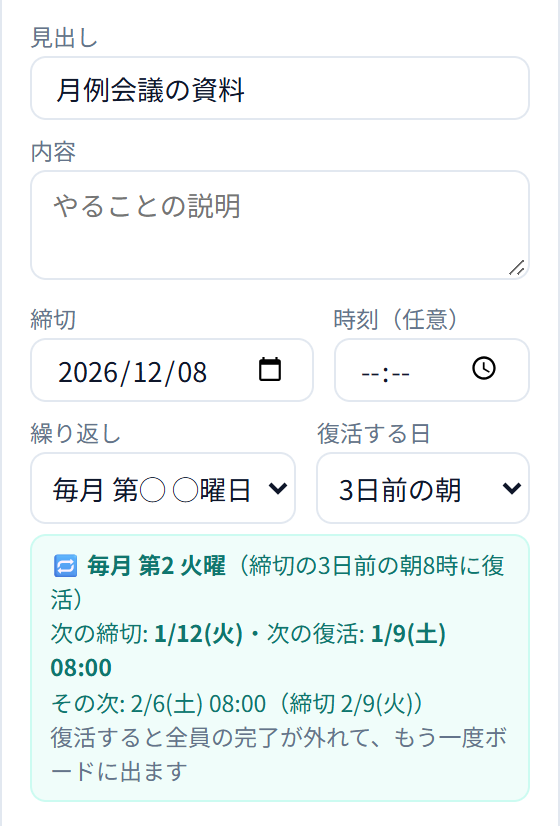
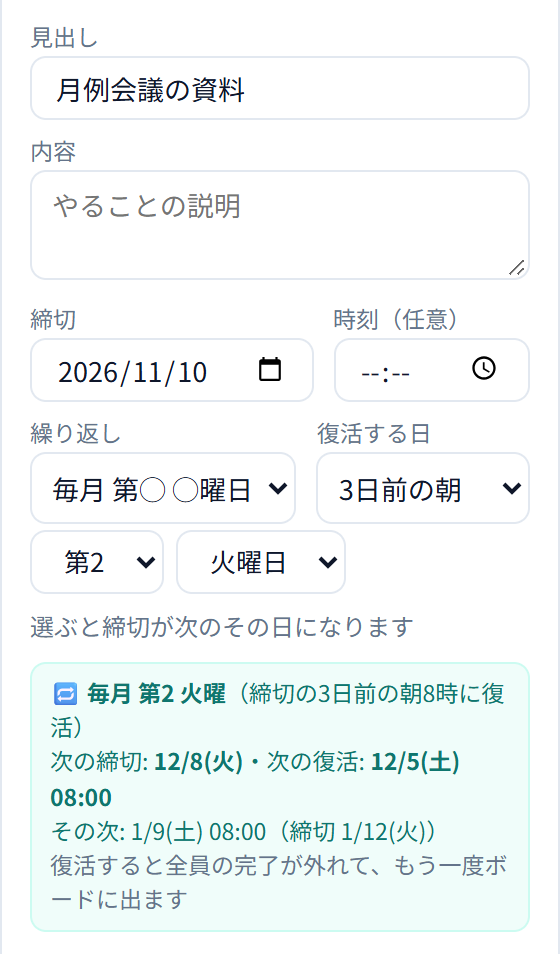
サンプル版とガイドに「保存したチーム」と「第何・曜日のプルダウン」

diff --git a/index.html b/index.html
@@ -155,6 +155,17 @@
   .board .empty { grid-column: 1 / -1; }
   .board.more::after { content: ""; }
   .chips { display: flex; gap: 6px; flex-wrap: wrap; }
+  .wdpick { display: flex; align-items: center; gap: 6px; flex-wrap: wrap; margin: -4px 0 10px; font-size: 13px; }
+  .wdpick select { height: 32px; font-size: 13px; width: auto; }
+  .wdpick .hint { font-size: 12px; }
+  .teampick { display: flex; align-items: center; gap: 6px; flex-wrap: wrap; margin: 0 0 8px; padding: 8px; background: #f0fdf4; border: 1px solid #bbf7d0; border-radius: 8px; }
+  .teampick .tp-l { font-size: 12px; font-weight: 700; color: #3f6212; }
+  .teampick select { flex: 1 1 100%; order: 3; min-width: 0; height: 32px; font-size: 13px; } /* 名前が切れないよう1行使う */
+  .teampick .tp-l { flex: 1; white-space: nowrap; }
+  .teampick .btn { height: 28px; padding: 0 8px; font-size: 12px; }
+  .tchecks { max-height: 260px; overflow: auto; border: 1px solid var(--line); border-radius: 8px; padding: 6px 8px; display: grid; grid-template-columns: repeat(auto-fill, minmax(140px, 1fr)); gap: 2px 10px; }
+  .tchecks label { display: flex; align-items: center; gap: 6px; font-size: 13px; margin: 0; cursor: pointer; white-space: nowrap; overflow: hidden; text-overflow: ellipsis; }
+  .tchecks input { width: auto; height: auto; margin: 0; }
   .checks { max-height: 150px; overflow: auto; border: 1px solid var(--line); border-radius: 8px; padding: 6px 8px; display: grid; grid-template-columns: 1fr 1fr; gap: 2px 8px; } /* 相手のチェック一覧（外したい人はチェックを外す） */
   .checks label { display: flex; align-items: center; gap: 6px; font-size: 12.5px; color: var(--text); margin: 0; cursor: pointer; white-space: nowrap; overflow: hidden; text-overflow: ellipsis; padding: 2px 0; }
   .checks label.off { color: var(--faint); text-decoration: line-through; }
@@ -325,11 +336,12 @@
             <div class="field"><label>内容</label><textarea id="cBody" rows="2" placeholder="やることの説明"></textarea></div>
             <div class="row2"><div class="field"><label>締切</label><input id="cDue" type="date"></div><div class="field"><label>時刻（任意）</label><input id="cDueTime" type="time"></div></div>
             <div class="row2 rrow"><div class="field"><label>繰り返し</label><select id="cRepeat"><option value="">しない</option><option value="weekly">毎週</option><option value="biweekly">隔週</option><option value="monthly">毎月（同じ日）</option><option value="monthend">毎月 月末</option><option value="nthwd">毎月 第◯ ◯曜日</option><option value="lastwd">毎月 最後の◯曜日</option></select></div><div class="field"><label>復活する日</label><select id="cLead" disabled><option value="0">当日の朝</option></select></div></div>
+            <div class="wdpick hide" id="cWdPick"></div>
             <div class="rpv hide" id="cRepeatPv"></div>
             <div class="row2"><div class="field"><label>所要時間（分）</label><input id="cMins" type="number" min="1" step="1" placeholder="例: 30"></div><div class="field"><label>重要</label><label style="display:flex;align-items:center;gap:6px;height:36px;font-size:13px;cursor:pointer"><input type="checkbox" id="cImportant" style="width:auto;height:auto;margin:0">重要（ピンク）</label></div></div>
             <div class="field"><label>リンク（任意）</label><input id="cLink" type="url" placeholder="https://"></div>
             <div class="field"><label>誰のタスク</label><div class="seg"><button id="cSelf" class="on">個人</button><button id="cTeam">チーム</button><button id="cCompany">全社</button></div></div>
-            <div class="field hide" id="cToWrap"><label style="display:flex;align-items:center;gap:4px"><span id="cToLabel">共有する相手</span>（<b id="cToN">0</b> 人）<span style="flex:1"></span><button class="btn sm ghost" id="cAll" style="height:22px;padding:0 6px;font-size:11px">全員</button><button class="btn sm ghost" id="cNone" style="height:22px;padding:0 6px;font-size:11px">解除</button></label><div class="checks" id="cTo"></div><p class="hint" style="margin:8px 0 0">自分も対象として、自分のボードにも入ります</p></div>
+            <div class="field hide" id="cToWrap"><div class="teampick hide" id="cTeamRow"><span class="tp-l">チームから選ぶ</span><select id="cTeamSel" aria-label="保存したチーム"></select><button class="btn sm ghost" id="cTeamEdit" title="選んだチームを修正・削除">修正</button><button class="btn sm" id="cTeamNew" title="チーム名とメンバーを保存して、次から全員が選べるようにします">＋チームを作る</button></div><label style="display:flex;align-items:center;gap:4px"><span id="cToLabel">共有する相手</span>（<b id="cToN">0</b> 人）<span style="flex:1"></span><button class="btn sm ghost" id="cAll" style="height:22px;padding:0 6px;font-size:11px">全員</button><button class="btn sm ghost" id="cNone" style="height:22px;padding:0 6px;font-size:11px">解除</button></label><div class="checks" id="cTo"></div><p class="hint" style="margin:8px 0 0">自分も対象として、自分のボードにも入ります</p></div>
             <button class="btn primary" id="cSave" style="width:100%;justify-content:center">タスクを作成</button>
           </div>
         </div>
@@ -835,7 +847,8 @@ function init() {
     board: me.name ? (rollRepeats_(), board_(email)) : [],
     sent: me.name ? sent_(email) : [],
     reminders: me.name ? myReminders_(email) : [],
-    viewers: me.isAdmin ? viewers_() : [] // 全員の状況を見られる人（管理者の設定画面用）
+    viewers: me.isAdmin ? viewers_() : [], // 全員の状況を見られる人（管理者の設定画面用）
+    teams: teams_() // 保存したチーム（誰でも選べる・2026-11-09）
   };
 }
 function links_() {
@@ -1579,6 +1592,61 @@ function getMailApi_() {
   var inbox = Gmail.Users.Labels.get('me', 'INBOX');
   return { unread: Number(inbox.messagesUnread || 0), list: list, fetched: now_() };
 }
+
+// ---------- 保存したチーム（2026-11-09） ----------
+// 誰かが「チーム名＋メンバー」を保存すると、全員がタスクの作成で「チームから選ぶ」に使える。直す・消すのは作った人と管理者
+var TEAM_HEAD = ['id', 'name', 'members', 'creator', 'created', 'updated'];
+function teamSheet_() {
+  var sh = sheet_('teams'); if (sh) return sh;
+  sh = ensureSheet_(ss_(), 'teams', TEAM_HEAD); shMemo_ = {}; return sh;
+}
+function teams_() {
+  var sh = ss_().getSheetByName('teams'); if (!sh) return [];
+  var n = sh.getLastRow(); if (n < 2) return [];
+  var names = {}; membersList_().forEach(function (m) { names[m.email] = m.name; });
+  return sh.getRange(2, 1, n - 1, TEAM_HEAD.length).getValues().filter(function (r) { return r[0] && r[1]; }).map(function (r) {
+    var mem = String(r[2] || '').split(',').map(function (e) { return e.trim().toLowerCase(); }).filter(function (e) { return names[e]; }); // 名簿から外れた人は出さない
+    return { id: String(r[0]), name: String(r[1]), members: mem, creator: String(r[3]).toLowerCase(), creatorName: names[String(r[3]).toLowerCase()] || '', updated: String(r[5] || r[4] || '') };
+  }).sort(function (a, b) { return a.name.localeCompare(b.name, 'ja'); });
+}
+function saveTeam(p) {
+  var email = myEmail_(); checkMember_(email);
+  p = p || {};
+  var name = String(p.name || '').replace(/\s+/g, ' ').trim();
+  if (!name) throw new Error('チーム名を入れてください');
+  if (name.length > 30) throw new Error('チーム名は30文字までにしてください');
+  var known = {}; membersList_().forEach(function (m) { known[m.email] = 1; });
+  var mem = []; (p.members || []).forEach(function (e) { e = String(e || '').trim().toLowerCase(); if (known[e] && mem.indexOf(e) < 0) mem.push(e); });
+  if (!mem.length) throw new Error('メンバーを1人以上選んでください');
+  var lock = LockService.getScriptLock(); lock.waitLock(20000);
+  try {
+    var sh = teamSheet_(), n = sh.getLastRow(), rows = n < 2 ? [] : sh.getRange(2, 1, n - 1, TEAM_HEAD.length).getValues(), ts = now_();
+    var same = rows.filter(function (r) { return String(r[1]).trim() === name && String(r[0]) !== String(p.id || ''); })[0];
+    if (same) throw new Error('同じ名前のチーム「' + name + '」があります。別の名前にしてください');
+    if (p.id) {
+      var i = rows.map(function (r) { return String(r[0]); }).indexOf(String(p.id));
+      if (i < 0) throw new Error('このチームは見つかりません（削除された可能性があります）');
+      if (String(rows[i][3]).toLowerCase() !== email && !isAdmin_(email)) throw new Error('チームを修正できるのは、作った人と管理者だけです');
+      sh.getRange(i + 2, 2, 1, 2).setValues([[name, mem.join(',')]]); sh.getRange(i + 2, 6).setValue(ts);
+    } else {
+      if (rows.length >= 100) throw new Error('チームは100個までです。使わないチームを削除してください');
+      sh.appendRow([newId_('tm'), name, mem.join(','), email, ts, ts]);
+    }
+  } finally { lock.releaseLock(); }
+  return teams_();
+}
+function deleteTeam(id) {
+  var email = myEmail_(); checkMember_(email);
+  var lock = LockService.getScriptLock(); lock.waitLock(20000);
+  try {
+    var sh = teamSheet_(), n = sh.getLastRow(); if (n < 2) throw new Error('このチームは見つかりません');
+    var ids = sh.getRange(2, 1, n - 1, 4).getValues(), i = ids.map(function (r) { return String(r[0]); }).indexOf(String(id));
+    if (i < 0) throw new Error('このチームは見つかりません');
+    if (String(ids[i][3]).toLowerCase() !== email && !isAdmin_(email)) throw new Error('チームを削除できるのは、作った人と管理者だけです');
+    sh.deleteRow(i + 2);
+  } finally { lock.releaseLock(); }
+  return teams_();
+}
 </script>
 <script>// サンプルデータ（架空・8人・タスク 約20件・カレンダー・未読メール）と google.script.run のモック
 (function () {
@@ -1691,7 +1759,7 @@ function getMailApi_() {
 </script>
 <script id="app">
 var booted = false;
-var S = { me: null, members: [], links: [], settings: {}, kinds: [], today: '', board: [], sent: [], tab: 'dash', kind: 'self', to: {}, excl: {}, calDate: '', calCache: {}, mail: null, timer: null, reminders: [], remindOpen: false, ov: null, mv: null, mvEmail: '', viewers: [] };
+var S = { me: null, members: [], links: [], settings: {}, kinds: [], today: '', board: [], sent: [], tab: 'dash', kind: 'self', to: {}, excl: {}, teams: [], calDate: '', calCache: {}, mail: null, timer: null, reminders: [], remindOpen: false, ov: null, mv: null, mvEmail: '', viewers: [] };
 function $(id) { return document.getElementById(id); }
 function esc(s) { return String(s == null ? '' : s).replace(/&/g, '&amp;').replace(/</g, '&lt;').replace(/>/g, '&gt;').replace(/"/g, '&quot;'); }
 function call(name) {
@@ -1744,6 +1812,34 @@ function repeatPreview(kind, lead, due) {
   var base = kind === 'weekly' ? '毎週 ' + wd : kind === 'biweekly' ? '隔週 ' + wd : kind === 'monthend' ? '毎月 月末' : kind === 'nthwd' ? '毎月 第' + n + ' ' + wd : kind === 'lastwd' ? '毎月 最後の' + wd : '毎月 ' + p[2] + '日';
   return '🔁 <b>' + base + '</b>（締切の' + leadText(lead) + 'の朝' + Number(REPEAT_HOUR.slice(0, 2)) + '時に復活）<br>次の締切: <b>' + fmtYmd(d1) + '</b>・次の復活: <b>' + fmtYmd(reviveOf(d1, lead)) + ' ' + REPEAT_HOUR + '</b><br>その次: ' + fmtYmd(reviveOf(d2, lead)) + ' ' + REPEAT_HOUR + '（締切 ' + fmtYmd(d2) + '）<br><span style="color:#64748b">復活すると全員の完了が外れて、もう一度ボードに出ます</span>';
 }
+// 毎月 第◯ ◯曜日／最後の◯曜日（2026-11-09）: 第何と曜日をプルダウンで選ぶ → 締切を「次のその日」に自動で入れる。締切を直接選んだら、プルダウンもそれに合わせる
+// 受け口（Code.gs）は今までどおり締切の日から 第何・曜日 を決めるので、選んだものと締切は必ずそろう
+function nextWdDate(kind, n, w) {
+  var t = (S.today || ymdS(new Date().getFullYear(), new Date().getMonth() + 1, new Date().getDate())).split('-').map(Number), y = t[0], m = t[1];
+  for (var i = 0; i < 3; i++) { var d = kind === 'lastwd' ? nthWdOf(y, m, 0, w) : nthWdOf(y, m, n, w), s = ymdS(y, m, d); if (s >= S.today || (!S.today && i)) return s; m++; if (m > 12) { m = 1; y++; } }
+  return '';
+}
+function wdPicker(box, repeatSel, dueInput, onChange) {
+  box.innerHTML = '<span class="wdN"><select aria-label="第何週">' + [1, 2, 3, 4].map(function (n) { return '<option value="' + n + '">第' + n + '</option>'; }).join('') + '</select></span>' +
+    '<select class="wdW" aria-label="曜日">' + WD.map(function (x, i) { return '<option value="' + i + '">' + x + '曜日</option>'; }).join('') + '</select><span class="hint">選ぶと締切が次のその日になります</span>';
+  var nSel = box.querySelector('.wdN select'), wSel = box.querySelector('.wdW');
+  function fromDue() { // 締切 → プルダウン
+    var v = dueInput.value; if (!v) return false;
+    var p = v.split('-').map(Number), n = Math.ceil(p[2] / 7); wSel.value = String(wdOf(p[0], p[1], p[2])); if (n <= 4) nSel.value = String(n); return true;
+  }
+  function toDue() { var d = nextWdDate(repeatSel.value, Number(nSel.value), Number(wSel.value)); if (d) dueInput.value = d; onChange && onChange(); }
+  function sync() {
+    var k = repeatSel.value, on = k === 'nthwd' || k === 'lastwd';
+    box.classList.toggle('hide', !on); box.querySelector('.wdN').classList.toggle('hide', k !== 'nthwd');
+    if (!on) return;
+    if (!fromDue()) { nSel.value = '1'; wSel.value = '1'; toDue(); } // 締切が空なら 第1 月曜日 から
+    else if (k === 'lastwd') { var p = dueInput.value.split('-').map(Number); if (p[2] + 7 <= lastDayOf(p[0], p[1])) toDue(); } // 最後の◯曜日でない日なら、その曜日の最後の日に合わせる
+    else { var q = dueInput.value.split('-').map(Number); if (Math.ceil(q[2] / 7) > 4) toDue(); } // 第5週なら 第4 にそろえる
+  }
+  nSel.onchange = toDue; wSel.onchange = toDue;
+  dueInput.addEventListener('change', function () { if (!box.classList.contains('hide')) fromDue(); });
+  return sync;
+}
 function repeatKindOf(r) { return String(r || '').split(':')[0]; }
 // 所要時間の ▲▼: 1, 2, 3, 5, 10, 15, 20 …（5 から先は 5 刻み）。キーで数字を打ったときはそのまま
 function minsUp(v) { v = Math.floor(Number(v) || 0); return v < 1 ? 1 : v < 3 ? v + 1 : v < 5 ? 5 : Math.floor(v / 5) * 5 + 5; }
@@ -1788,7 +1884,7 @@ $('mCreate').onclick = function () { show('dash'); setTimeout(function () { $('c
 // ---------- 起動 ----------
 function boot() {
   call('init').then(function (r) {
-    S.me = r.me; S.members = r.members; S.links = r.links; S.settings = r.settings; S.kinds = r.kinds; S.appUrl = r.appUrl || ''; S.today = r.today; S.board = r.board; S.sent = r.sent;
+    S.me = r.me; S.members = r.members; S.teams = r.teams || []; S.links = r.links; S.settings = r.settings; S.kinds = r.kinds; S.appUrl = r.appUrl || ''; S.today = r.today; S.board = r.board; S.sent = r.sent;
     if (!S.calDate) S.calDate = r.today;
     $('meMail').textContent = r.me.email;
     if (r.me.name) { $('meName').textContent = r.me.name + (r.me.isAdmin ? '（管理者）' : ''); $('meAv').textContent = initial(r.me.name); }
@@ -1914,14 +2010,62 @@ function renderTo() {
   $('cTo').querySelectorAll('input[data-e]').forEach(function (c) { c.onchange = function () {
     var e = c.dataset.e;
     if (S.kind === 'all') { if (c.checked) delete S.excl[e]; else S.excl[e] = 1; c.parentNode.classList.toggle('off', !c.checked); }
-    else { if (c.checked) S.to[e] = 1; else delete S.to[e]; }
+    else { if (c.checked) S.to[e] = 1; else delete S.to[e]; if ($('cTeamSel').value) { $('cTeamSel').value = ''; teamBtns(); } }
     $('cToN').textContent = toCount();
   }; });
   $('cToN').textContent = toCount();
 }
 $('cAll').onclick = function () { if (S.kind === 'all') S.excl = {}; else others().forEach(function (m) { S.to[m.email] = 1; }); renderTo(); };
 $('cNone').onclick = function () { if (S.kind === 'all') others().forEach(function (m) { S.excl[m.email] = 1; }); else S.to = {}; renderTo(); };
-function setKind(k) { S.kind = k; $('cSelf').classList.toggle('on', k === 'self'); $('cTeam').classList.toggle('on', k === 'team'); $('cCompany').classList.toggle('on', k === 'all'); $('cToWrap').classList.toggle('hide', k === 'self'); renderTo(); }
+// ---------- 保存したチーム（2026-11-09）: 誰かが作ったチームを全員が選べる。選ぶとそのメンバーにチェック（あとで1人ずつ変えてもよい） ----------
+function renderTeams(selId) {
+  var sel = $('cTeamSel'), cur = selId != null ? selId : sel.value;
+  sel.innerHTML = '<option value="">' + (S.teams.length ? '（1人ずつ選ぶ）' : '（まだチームがありません）') + '</option>' + S.teams.map(function (t) { return '<option value="' + esc(t.id) + '">' + esc(t.name) + '（' + t.members.length + '人）</option>'; }).join('');
+  sel.value = S.teams.some(function (t) { return t.id === cur; }) ? cur : '';
+  teamBtns();
+}
+function teamOf(id) { return S.teams.filter(function (t) { return t.id === id; })[0]; }
+function canEditTeam(t) { return t && S.me && (t.creator === S.me.email || S.me.isAdmin); }
+function teamBtns() { var t = teamOf($('cTeamSel').value); $('cTeamEdit').classList.toggle('hide', !canEditTeam(t)); }
+function applyTeam(t) { var me = S.me ? S.me.email : ''; S.to = {}; if (t) t.members.forEach(function (e) { if (e !== me) S.to[e] = 1; }); renderTo(); }
+$('cTeamSel').onchange = function () { teamBtns(); var t = teamOf(this.value); if (t) applyTeam(t); };
+function teamModal(t) {
+  var me = S.me ? S.me.email : '', on = {};
+  if (t) t.members.forEach(function (e) { on[e] = 1; }); else { Object.keys(S.to).forEach(function (e) { on[e] = 1; }); if (me) on[me] = 1; } // 新しく作るときは、いまチェックしている人から始める
+  modal('<div class="mh"><h3>' + (t ? 'チームを修正' : 'チームを作る') + '</h3></div><div class="mb">' +
+    '<div class="field"><label>チーム名</label><input id="tmName" maxlength="30" placeholder="例：営業1課・一宮チーム" value="' + esc(t ? t.name : '') + '"></div>' +
+    '<div class="field"><label style="display:flex;align-items:center;gap:6px">メンバー（<b id="tmN">0</b> 人）<span style="flex:1"></span><button class="btn sm ghost" id="tmAll" style="height:22px;padding:0 6px;font-size:11px">全員</button><button class="btn sm ghost" id="tmNone" style="height:22px;padding:0 6px;font-size:11px">解除</button></label>' +
+    '<div class="tchecks" id="tmChecks">' + S.members.map(function (m) { return '<label title="' + esc(m.name) + '"><input type="checkbox" data-e="' + esc(m.email) + '"' + (on[m.email] ? ' checked' : '') + '>' + esc(m.name) + (m.email === me ? '（自分）' : '') + '</label>'; }).join('') + '</div></div>' +
+    '<p class="hint" style="margin:0">保存したチームは、全員が「タスクの作成」の「チームから選ぶ」で使えます。修正・削除できるのは、作った人と管理者だけです。' + (t ? '（作った人：' + esc(t.creatorName || t.creator) + '）' : '') + '</p></div>' +
+    '<div class="mf">' + (t ? '<button class="btn danger" id="tmDel" style="margin-right:auto">削除</button>' : '') + '<button class="btn" data-close>やめる</button><button class="btn primary" id="tmSave">保存</button></div>', function (bg) {
+      var cnt = function () { bg.querySelector('#tmN').textContent = bg.querySelectorAll('#tmChecks input:checked').length; }; cnt();
+      bg.querySelectorAll('#tmChecks input').forEach(function (c) { c.onchange = cnt; });
+      bg.querySelector('#tmAll').onclick = function () { bg.querySelectorAll('#tmChecks input').forEach(function (c) { c.checked = true; }); cnt(); };
+      bg.querySelector('#tmNone').onclick = function () { bg.querySelectorAll('#tmChecks input').forEach(function (c) { c.checked = false; }); cnt(); };
+      bg.querySelector('#tmName').focus();
+      bg.querySelector('#tmSave').onclick = function () {
+        var b = this, name = bg.querySelector('#tmName').value.trim(), mem = [].map.call(bg.querySelectorAll('#tmChecks input:checked'), function (c) { return c.dataset.e; });
+        if (!name) { toast('チーム名を入れてください', true); return; }
+        if (!mem.length) { toast('メンバーを1人以上選んでください', true); return; }
+        b.disabled = true;
+        call('saveTeam', { id: t ? t.id : '', name: name, members: mem }).then(function (list) {
+          S.teams = list; bg.remove();
+          var saved = list.filter(function (x) { return x.name === name.replace(/\s+/g, ' '); })[0];
+          renderTeams(saved ? saved.id : ''); if (saved) applyTeam(saved);
+          toast(t ? 'チームを修正しました' : 'チーム「' + name + '」を作りました（全員が選べます）');
+        }).catch(function (e) { b.disabled = false; fail(e); });
+      };
+      var del = bg.querySelector('#tmDel');
+      if (del) del.onclick = function () {
+        if (!confirm('チーム「' + t.name + '」を削除します。よろしいですか？（作ったタスクはそのままです）')) return;
+        del.disabled = true;
+        call('deleteTeam', t.id).then(function (list) { S.teams = list; bg.remove(); renderTeams(''); toast('チームを削除しました'); }).catch(function (e) { del.disabled = false; fail(e); });
+      };
+    });
+}
+$('cTeamNew').onclick = function () { teamModal(null); };
+$('cTeamEdit').onclick = function () { var t = teamOf($('cTeamSel').value); if (t) teamModal(t); };
+function setKind(k) { S.kind = k; $('cTeamRow').classList.toggle('hide', k !== 'team'); if (k === 'team') renderTeams(); $('cSelf').classList.toggle('on', k === 'self'); $('cTeam').classList.toggle('on', k === 'team'); $('cCompany').classList.toggle('on', k === 'all'); $('cToWrap').classList.toggle('hide', k === 'self'); renderTo(); }
 // 複製（2026-11-02）: 発信したタスクの中身を「タスクの作成」欄に入れる。直して「タスクを作成」で新しいタスクになる（元はそのまま）
 function copyToForm(t) {
   show('dash');
@@ -1935,14 +2079,16 @@ function copyToForm(t) {
   if (kind === 'team') others().forEach(function (m) { if (got[m.email]) S.to[m.email] = 1; });
   if (kind === 'all') others().forEach(function (m) { if (!got[m.email]) S.excl[m.email] = 1; }); // 前に外した人は外したまま
   setKind(kind);
-  var rk = repeatKindOf(t.repeat); $('cRepeat').value = rk; fillLead($('cLead'), rk, t.repeatLead || 0); renderRepeatPv();
+  var rk = repeatKindOf(t.repeat); $('cRepeat').value = rk; fillLead($('cLead'), rk, t.repeatLead || 0); renderRepeatPv(); cWdSync();
   setTimeout(function () { $('createCard').scrollIntoView({ behavior: 'smooth', block: 'start' }); setTimeout(function () { $('cTitle').focus({ preventScroll: true }); }, 400); }, 50);
   toast(past ? '複製しました。締切が過ぎていたので空にしています。締切を入れて「タスクを作成」を押してください' : '複製しました。内容を直して「タスクを作成」を押してください');
 }
 $('cSelf').onclick = function () { setKind('self'); }; $('cTeam').onclick = function () { setKind('team'); }; $('cCompany').onclick = function () { setKind('all'); };
-function renderRepeatPv() { var k = $('cRepeat').value; $('cRepeatPv').innerHTML = repeatPreview(k, $('cLead').value, $('cDue').value); $('cRepeatPv').classList.toggle('hide', !k); }
+var cWdSync = null;
+function renderRepeatPv() { if (!cWdSync) cWdSync = wdPicker($('cWdPick'), $('cRepeat'), $('cDue'), function () { renderRepeatPv(); }); var k = $('cRepeat').value; $('cRepeatPv').innerHTML = repeatPreview(k, $('cLead').value, $('cDue').value); $('cRepeatPv').classList.toggle('hide', !k); }
 $('cRepeat').onchange = function () {
   var k = $('cRepeat').value; fillLead($('cLead'), k, $('cLead').value);
+  if (!cWdSync) renderRepeatPv(); cWdSync();
   if (k === 'monthend' && !$('cDue').value) { var n = new Date(); $('cDue').value = ymdS(n.getFullYear(), n.getMonth() + 1, lastDayOf(n.getFullYear(), n.getMonth() + 1)); } // 月末は締切を今月末に
   renderRepeatPv();
 };
@@ -1958,7 +2104,7 @@ $('cSave').onclick = function () {
     $('cSave').disabled = false;
     ['cTitle', 'cBody', 'cDue', 'cDueTime', 'cMins', 'cLink'].forEach(function (id) { $(id).value = ''; });
     $('cImportant').checked = false; S.to = {}; S.excl = {}; renderTo();
-    $('cRepeat').value = ''; fillLead($('cLead'), '', 0); renderRepeatPv();
+    $('cRepeat').value = ''; fillLead($('cLead'), '', 0); renderRepeatPv(); cWdSync();
     if (t.myStatus === 'open') { S.board.push(t); S.board.sort(boardOrder); renderBoard(); }
     if (t.scope === 'share') { S.sent.push(t); S.sent.sort(boardOrder); }
     toast((t.scope === 'share' ? t.assignees.filter(function (a) { return a.email !== t.creator; }).length + ' 人に共有しました' : 'タスクを作りました') + (t.nextRevive ? '（次の復活 ' + fmtYmd(t.nextRevive.slice(0, 10)) + ' ' + t.nextRevive.slice(11) + '）' : ''));
@@ -2081,15 +2227,16 @@ function editModal(t) {
     '<div class="field"><label>内容</label><textarea id="eBody" rows="4">' + esc(t.body) + '</textarea></div>' +
     '<div class="row2"><div class="field"><label>締切</label><input id="eDue" type="date" value="' + esc(t.due) + '"></div><div class="field"><label>時刻（任意）</label><input id="eDueTime" type="time" value="' + esc(t.dueTime) + '"></div></div>' +
     '<div class="row2"><div class="field"><label>所要時間（分）</label><input id="eMins" type="number" min="1" step="1" value="' + esc(t.minutes) + '"></div><div class="field"><label>重要</label><label style="display:flex;align-items:center;gap:6px;height:36px;font-size:13px;cursor:pointer"><input type="checkbox" id="eImportant" style="width:auto;height:auto;margin:0"' + (t.important ? ' checked' : '') + '>重要タスク（ピンク）</label></div></div>' +
-    '<div class="row2 rrow"><div class="field"><label>繰り返し</label><select id="eRepeat">' + [['', 'しない'], ['weekly', '毎週'], ['biweekly', '隔週'], ['monthly', '毎月（同じ日）'], ['monthend', '毎月 月末'], ['nthwd', '毎月 第◯ ◯曜日'], ['lastwd', '毎月 最後の◯曜日']].map(function (o) { return '<option value="' + o[0] + '"' + (repeatKindOf(t.repeat) === o[0] ? ' selected' : '') + '>' + o[1] + '</option>'; }).join('') + '</select></div><div class="field"><label>復活する日</label><select id="eLead"></select></div></div><div class="rpv hide" id="eRepeatPv"></div>' +
+    '<div class="row2 rrow"><div class="field"><label>繰り返し</label><select id="eRepeat" data-wd="eWdPick">' + [['', 'しない'], ['weekly', '毎週'], ['biweekly', '隔週'], ['monthly', '毎月（同じ日）'], ['monthend', '毎月 月末'], ['nthwd', '毎月 第◯ ◯曜日'], ['lastwd', '毎月 最後の◯曜日']].map(function (o) { return '<option value="' + o[0] + '"' + (repeatKindOf(t.repeat) === o[0] ? ' selected' : '') + '>' + o[1] + '</option>'; }).join('') + '</select></div><div class="field"><label>復活する日</label><select id="eLead"></select></div></div><div class="wdpick hide" id="eWdPick"></div><div class="rpv hide" id="eRepeatPv"></div>' +
     '<div class="field"><label>リンク</label><input id="eLink" type="url" value="' + esc(t.link) + '"></div>' +
     (t.scope === 'share' ? '<div class="field"><label>相手を足す（外すことはできません）</label><div class="chips" id="eTo">' + others.map(function (m) { return '<button class="chip' + (cur[m.email] ? ' on' : '') + '" data-e="' + esc(m.email) + '"' + (cur[m.email] ? ' disabled' : '') + '>' + esc(m.name) + '</button>'; }).join('') + '</div></div>' : '') +
     '</div><div class="mf"><button class="btn" data-close>やめる</button><button class="btn primary" id="eSave">保存</button></div>', function (bg) {
     var add = {}; minsStepper(bg.querySelector('#eMins'));
     var eR = bg.querySelector('#eRepeat'), eL = bg.querySelector('#eLead'), ePv = bg.querySelector('#eRepeatPv'), eD = bg.querySelector('#eDue');
     function ePrev() { ePv.innerHTML = repeatPreview(eR.value, eL.value, eD.value); ePv.classList.toggle('hide', !eR.value); }
-    fillLead(eL, eR.value, t.repeatLead || 0); ePrev();
-    eR.onchange = function () { fillLead(eL, eR.value, eL.value); ePrev(); }; eL.onchange = ePrev; eD.addEventListener('change', ePrev);
+    var eWd = wdPicker(bg.querySelector('#eWdPick'), eR, eD, ePrev);
+    fillLead(eL, eR.value, t.repeatLead || 0); eWd(); ePrev();
+    eR.onchange = function () { fillLead(eL, eR.value, eL.value); eWd(); ePrev(); }; eL.onchange = ePrev; eD.addEventListener('change', ePrev);
     bg.querySelectorAll('#eTo .chip:not(:disabled)').forEach(function (b) { b.onclick = function () { if (add[b.dataset.e]) delete add[b.dataset.e]; else add[b.dataset.e] = 1; b.classList.toggle('on'); }; });
     bg.querySelector('#eSave').onclick = function () {
       call('updateTask', t.id, { title: bg.querySelector('#eTitle').value, body: bg.querySelector('#eBody').value, due: bg.querySelector('#eDue').value, dueTime: bg.querySelector('#eDueTime').value, minutes: bg.querySelector('#eMins').value, link: bg.querySelector('#eLink').value, important: bg.querySelector('#eImportant').checked, addTo: Object.keys(add), repeat: eR.value === 'monthly' && repeatKindOf(t.repeat) === 'monthly' && eD.value === t.due ? t.repeat : eR.value, repeatLead: eL.value })

diff --git a/guide/index.html b/guide/index.html
@@ -189,6 +189,14 @@
     <script type="application/json">{"images":[{"src":"img/demo-create.png","w":280,"h":767,"dw":320,"alt":"タスクの作成（チーム）"}],"steps":[{"img":0,"x":26.8,"y":10.7,"t":"「見出し」に、やることを短く入れます","box":{"x":5.4,"y":8.6,"w":89.3,"h":4.2},"type":"ウィズダム様 校正戻し"},{"img":0,"x":19.6,"y":29,"t":"「締切」の日付を選びます（時刻は必要なときだけ）","box":{"x":5.4,"y":26.9,"w":50.5,"h":4.2}},{"img":0,"x":34.8,"y":60.1,"t":"「チーム」を押します（全員に出すときは「全社」）","box":{"x":23.6,"y":58.1,"w":22.4,"h":4.2}},{"img":0,"x":10.9,"y":68.6,"t":"頼みたい相手にチェックを入れます","box":{"x":8.6,"y":67.8,"w":4.6,"h":1.7},"more":[{"x":10.9,"y":71.7},{"x":10.9,"y":74.9}]},{"img":0,"x":92.5,"y":85.2,"t":"人が多くて見づらいときは、欄の右下をつまんで下へ引くと広がります","box":{"x":5.4,"y":66.4,"w":89.3,"h":19.5},"drag":{"x":92.5,"y":90.4}},{"img":0,"x":50,"y":95.6,"t":"「タスクを作成」を押せば完成。相手と自分のボードに出ます","box":{"x":5.4,"y":93.2,"w":89.3,"h":4.7}}]}</script>
   </div>
 <!-- /demo:create -->
+<!-- demo:teamsave -->
+  <h3>動きで見る：チームを作って選ぶ</h3>
+  <div class="demo" data-demo="teamsave">
+    <div class="stage" style="width:320px"><img src="img/demo-teamsave-1.png" alt="チームから選ぶ" width="270" height="257" loading="lazy"></div>
+    <div class="side"><h4>この順に押します</h4><ol class="steps"></ol><div class="ctl"><button type="button" data-act="pause">一時停止</button><button type="button" data-act="again">最初から</button></div></div>
+    <script type="application/json">{"images":[{"src":"img/demo-teamsave-1.png","w":270,"h":257,"dw":320,"alt":"チームから選ぶ"},{"src":"img/demo-teamsave-2.png","w":600,"h":372,"dw":520,"alt":"チームを作る"},{"src":"img/demo-teamsave-3.png","w":270,"h":291,"dw":320,"alt":"チームを選んだところ"}],"steps":[{"img":0,"x":74.1,"y":13,"t":"「チーム」のとき「＋チームを作る」を押します","box":{"x":55.3,"y":7.6,"w":37.6,"h":10.9}},{"img":1,"x":13,"y":29.1,"t":"チーム名を入れます","box":{"x":3,"y":24.2,"w":35.3,"h":9.7},"type":"一宮チーム"},{"img":1,"x":36.5,"y":48.8,"t":"メンバーにチェックを入れます","box":{"x":35.4,"y":47.1,"w":2.2,"h":3.5},"more":[{"x":5.6,"y":54.5},{"x":36.5,"y":54.5}]},{"img":1,"x":92.6,"y":91.9,"t":"「保存」。全員が「チームから選ぶ」で使えるようになります","box":{"x":88.2,"y":87.1,"w":8.8,"h":9.7}},{"img":2,"x":50,"y":35.6,"t":"次からは「チームから選ぶ」でチームを選ぶと、メンバー全員にチェックが入ります","box":{"x":7,"y":30.1,"w":85.9,"h":11},"look":{"x":5.6,"y":28.7,"w":88.9,"h":13.7}},{"img":2,"x":50,"y":75.8,"t":"1人ずつ足したり外したりもできます（そのときはチームの選択が外れます）","box":{"x":3.7,"y":55.2,"w":92.6,"h":41.2},"look":{"x":2.2,"y":53.8,"w":95.6,"h":44}},{"img":2,"x":85.2,"y":11.5,"t":"チームを作った人と管理者は「修正」で直す・削除できます","box":{"x":77.4,"y":6.7,"w":15.6,"h":9.6}}]}</script>
+  </div>
+<!-- /demo:teamsave -->
   <div class="pair">
     <figure class="s"><img src="img/04-create-self.png" alt="タスクの作成（個人）" loading="lazy" width="280" height="537"><figcaption>個人のタスク</figcaption></figure>
   </div>
@@ -205,12 +213,24 @@
   <h3>誰のタスク？（個人・チーム・全社）</h3>
   <ul>
     <li><b>個人</b>：自分だけのタスクです。</li>
-    <li><b>チーム</b>：「共有する相手」で、頼みたい人にチェックを入れます。</li>
+    <li><b>チーム</b>：「共有する相手」で、頼みたい人にチェックを入れます。<b>保存したチーム</b>を選ぶと、そのメンバー全員にチェックが入ります（下の「チームを作る」）。</li>
     <li><b>全社</b>：全員にチェックが入った状態になります。外したい人だけチェックを外してください。</li>
   </ul>
   <div class="note">チーム・全社のタスクは、<b>作った人（自分）も必ず対象</b>になり、自分のボードにも付箋が出ます。自分の分も「完了」してください。</div>
   <p>相手の一覧が見づらいときは、一覧の枠の <b>右下の角をつまんで下に引っぱる</b> と広げられます（内容の欄と同じです）。「全員」「解除」でまとめて選んだり外したりできます。</p>
   <p>最後に <b>「タスクを作成」</b> を押すと、自分と相手のボードに付箋が出ます。</p>
+  <h3>チームを作る（保存したチーム）</h3>
+  <p>よく頼む顔ぶれは「チーム」として保存しておくと、次から1回で選べます。<b>だれかが作ったチームは、全員が使えます。</b></p>
+  <ol>
+    <li>「誰のタスク」で <b>「チーム」</b> を押し、<b>「＋チームを作る」</b> を押します。</li>
+    <li><b>チーム名</b>（例：営業1課・一宮チーム）を入れ、<b>メンバーにチェック</b>を入れて「保存」します。</li>
+    <li>次からは <b>「チームから選ぶ」</b> でチームを選ぶだけで、メンバー全員にチェックが入ります。</li>
+  </ol>
+  <ul>
+    <li>チームを選んだあとも、1人ずつ足したり外したりできます（そのときはチームの選択が外れて「1人ずつ選ぶ」になります）。</li>
+    <li>これまでどおり、チームを使わずに1人ずつチェックして選ぶこともできます。</li>
+    <li>チームの <b>「修正」</b>（名前・メンバーを直す・削除）ができるのは、<b>作った人と管理者だけ</b>です。</li>
+  </ul>
 </section>
 
 <section id="note">
@@ -325,9 +345,9 @@
 <!-- demo:repeat -->
   <h3>動きで見る：毎月 第2火曜に繰り返す</h3>
   <div class="demo" data-demo="repeat">
-    <div class="stage" style="width:320px"><img src="img/demo-repeat.png" alt="繰り返しの設定と見本" width="280" height="413" loading="lazy"></div>
+    <div class="stage" style="width:320px"><img src="img/demo-repeat.png" alt="繰り返しの設定と見本" width="280" height="478" loading="lazy"></div>
     <div class="side"><h4>この順に押します</h4><ol class="steps"></ol><div class="ctl"><button type="button" data-act="pause">一時停止</button><button type="button" data-act="again">最初から</button></div></div>
-    <script type="application/json">{"images":[{"src":"img/demo-repeat.png","w":280,"h":413,"dw":320,"alt":"繰り返しの設定と見本"}],"steps":[{"img":0,"x":19.6,"y":44.6,"t":"締切の日付を入れます（第何週・何曜日の基準になります）","box":{"x":5.4,"y":40.8,"w":50.5,"h":7.7}},{"img":0,"x":29.2,"y":58.9,"t":"「繰り返し」で「毎月 第◯ ◯曜日」を選びます","box":{"x":5.4,"y":54.6,"w":47.6,"h":8.7}},{"img":0,"x":75.6,"y":58.9,"t":"「復活する日」で、締切の何日前にボードへ出すか選びます","box":{"x":56.5,"y":54.6,"w":38.1,"h":8.7}},{"img":0,"x":50,"y":80.8,"t":"見本で、次の締切と復活する日を確かめます","box":{"x":5.4,"y":64.5,"w":89.3,"h":32.6},"look":{"x":3.9,"y":63.5,"w":92.1,"h":34.5}}]}</script>
+    <script type="application/json">{"images":[{"src":"img/demo-repeat.png","w":280,"h":478,"dw":320,"alt":"繰り返しの設定と見本"}],"steps":[{"img":0,"x":29.2,"y":51,"t":"「繰り返し」で「毎月 第◯ ◯曜日」を選びます","box":{"x":5.4,"y":47.2,"w":47.6,"h":7.5}},{"img":0,"x":17.3,"y":58.7,"t":"「第何」を選びます（第1〜第4）","box":{"x":5.4,"y":55.4,"w":23.9,"h":6.7}},{"img":0,"x":46.6,"y":58.7,"t":"「曜日」を選びます","box":{"x":31.4,"y":55.4,"w":30.4,"h":6.7}},{"img":0,"x":30.6,"y":38.6,"t":"締切が「次のその日」に自動で入ります（締切の日付から選んでもプルダウンが合わせます）","box":{"x":5.4,"y":35.3,"w":50.5,"h":6.7},"look":{"x":3.9,"y":34.4,"w":53.4,"h":8.4}},{"img":0,"x":75.6,"y":51,"t":"「復活する日」で、締切の何日前にボードへ出すか選びます","box":{"x":56.5,"y":47.2,"w":38.1,"h":7.5}},{"img":0,"x":50,"y":83.4,"t":"見本で、次の締切と復活する日を確かめます","box":{"x":5.4,"y":69.3,"w":89.3,"h":28.2},"look":{"x":3.9,"y":68.4,"w":92.1,"h":29.9}}]}</script>
   </div>
 <!-- /demo:repeat -->
   <p>週報や月次の報告など、決まった周期のタスクは「繰り返し」を使うと、毎回作り直さなくて済みます。<b>締切の日付が基準</b> になるので、締切は必ず入れてください。</p>
@@ -337,8 +357,8 @@
     <tr><td>隔週</td><td>締切と同じ曜日（2週間後）</td></tr>
     <tr><td>毎月（同じ日）</td><td>締切と同じ日にち（その日がない月は月末）</td></tr>
     <tr><td>毎月 月末</td><td>次の月の月末</td></tr>
-    <tr><td>毎月 第◯ ◯曜日</td><td>締切の日から決まります。例：締切が第2火曜なら、毎月の第2火曜</td></tr>
-    <tr><td>毎月 最後の◯曜日</td><td>締切をその月の最後の◯曜日にします。例：毎月 最後の金曜</td></tr>
+    <tr><td>毎月 第◯ ◯曜日</td><td>出てくる <b>「第1〜第4」と「曜日」</b> を選ぶと、締切が次のその日に自動で入ります。例：第2・火曜日 → 毎月の第2火曜（締切の日付を選んでも、プルダウンがそれに合わせます）</td></tr>
+    <tr><td>毎月 最後の◯曜日</td><td>出てくる <b>「曜日」</b> を選ぶと、締切がその月の最後の◯曜日になります。例：毎月 最後の金曜</td></tr>
   </table>
   <ul>
     <li><b>復活する日</b>：次の締切の「当日」「◯日前」「◯週間前」の <b>朝8時</b> に、全員の完了が外れてもう一度ボードに出ます。</li>
